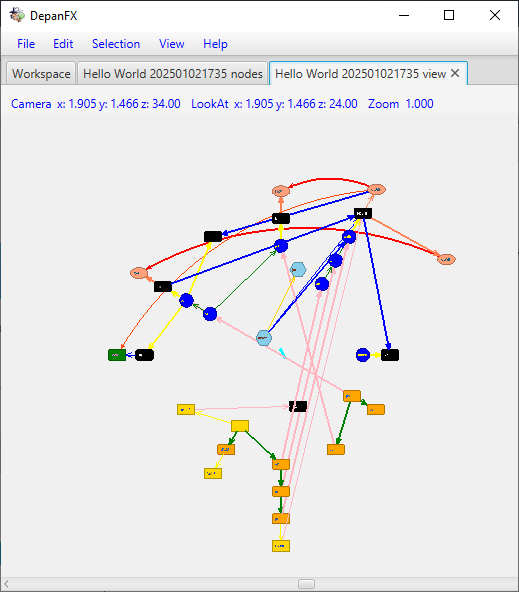
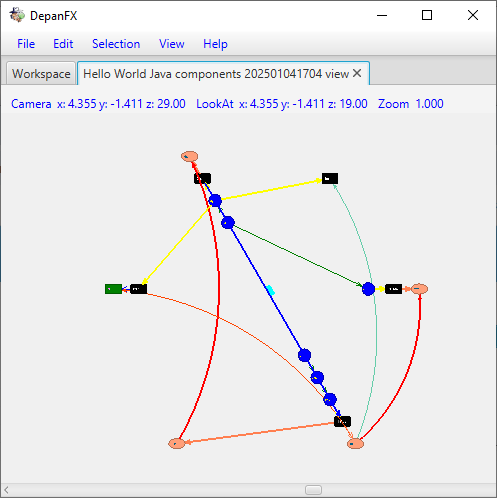
Revisions for better layouts and reference

diff --git a/mkdocs/docs/introduction/lists_and_views/NodeViewPanel.md b/mkdocs/docs/introduction/lists_and_views/NodeViewPanel.md
@@ -23,37 +23,14 @@ Right click on the `Hello World yyyyMMddhhmm.dgi` file to open the context menu,
 and select the Open As Node View menu item.  
 ![Open Hello World Node View](img/Open Hello World Node View.png "Open Hello World Node View")<br/>
 
-The initial presentation is a bit cahotic.  
-![Hello World Node View Initial Panel](img/Hello World Node View Initial Panel.png "Hello World Node View Initial Panel")
+The initial view is a bit too close to the nodes.  
+![Hello World Node View Initial Panel](img/Hello World Node View Initial Layout.png "Hello World Node View Initial Layout")
 
-Even zoomed out, the initial presentation remains messy.
-![Hello World Node View Zoomed Out](img/Hello World Node View Zoomed Out.png "Hello World Node View Zoomed Out")<br/>
-The initial set of 32 components are displayed in a grid layout,
-with arrows going everywhere.
+With the mouse wheel (or '-'), we can zoom in and out for a more comfortable view.
 
-When a node list is opened as a node view, none of the nodes have been assigned a location.
-The current default is a grid layout, whith each node placed on a retangular grid.
-If there are more than a handful of nodes,
-the initial node zoom will only show a few nodes.
-
-## Selecting A Layout
-
-Even zoomed out, the nodes do not present a useful structure.
-We can expose their structure by using the layout options,
-and adjusting the display and visibility of edges and nodes.
-
-From the context menu on the Node View tab,
-select the `Layout Nodes > Radial Layout` menu option.  
-![Hello World Node View Layout Menu](img/Hello World Node View Layout Menu.png "Hello World Node View Layout Menu")
-
-Use the resource chooser to select the Built In `Radial Layout` layout tool.  
-![Hello World Node View Open Layout](img/Hello World Node View Open Layout.png "Hello World Node View Open Layout")
-
-After confirming your selection, the nodes in the view panel move to their new locations.  
-![Hello World Node View Radial Layout](img/Hello World Node View Radial Layout.png "Hello World Node View Radial Layout")
-
-The radial layout tool uses the same Java membership relationships a
-the tree section of a node list panel, so it exposes a similar structure.
+When zoomed out, the Java components are shown in a radial tree.
+This layout optimizes for screen space.
+![Hello World Node View Zoomed Out](img/Hello World Node View Radial Layout.png "Hello World Node View Radial Layout")<br/>
 
 Due to the setup for edge visibility configuration,
 membership relationships use straight arrows of various widths and colors,
@@ -77,7 +54,7 @@ select the `Take Screenshot` menu option.
 
 This brings up the save screenshot dialog using the local system's file chooser.  
 ![Hello World Node View Take Save Screenshot](img/Hello World Node View Save Screenshot.png "Hello World Node View Save Screenshot")<br/>
-The saved `.pdf` from the take screenshot command can be used as any image file.
+The saved `.png` from the take screenshot command can be used as any image file.
 
 Since a primary goal of screenshots is to share information outside of DepanFX,
 screenshots should not be saved within a project.

diff --git a/mkdocs/docs/introduction/lists_and_views/Introduction.md b/mkdocs/docs/introduction/lists_and_views/Introduction.md
@@ -1,2 +1,37 @@
 # Lists and Views
 
+The node list panel and node view panel provide two important perspectives
+on the nodes in a dependency graph.
+
+A node list panel provides a tabular presentation for selected nodes
+in the dependency graph.
+This perspective is very effective for software analysis tasks.
+
+The node view panel provides a graphical presentation for selected nodes
+and their relationships.
+This perspective is very effective for graph inspection and discovery tasks.
+
+## Our Goal
+
+The following sections provide an introduction to these two perspectives
+through a simple goal - obtain a dependency graph image that can be
+include in another document.
+
+Fortunately, DepanFX can capture a snapshot of a dependency graph as a
+png image which is saved to a file.
+The resulting file can be include in other documents where helpful.
+
+For this task, we will use the node list panel to focus the attention
+onto the Java elements of the HelloWorld application.
+The construction of the `.jar` file from the HelloWorld application
+includes a large number of discovered artifacts,
+only some of which are explicitly Java.
+The node list panel allows us to quickly select these components
+and save that selection for later analysis.
+
+The node view panel provides a graphical view of the selected nodes
+that is enriched with explicit presentations of their multiple relationships.
+By pulling the selected Java nodes into a node view,
+the structure of the components is revealed.
+The Take Screenshot menu item allow the currently rendered
+image to be saved as our PNG file.

diff --git a/mkdocs/docs/reference/nodeview/keyboard_cmnds/KeyboardCommands.md b/mkdocs/docs/reference/nodeview/keyboard_cmnds/KeyboardCommands.md
@@ -3,6 +3,24 @@
 The node view panel provides a number of actions that may be triggered
 by user actions within the view rendering panel.
 
+## Node View Motion
+
+DepanFX provides a number of ways to change the view of node graph.
+Many of the view changing commands act on the viewpoint, or camera.
+The actions of these commands can be broken done into a number of categories.
+
+* dolly: move the camera on the indicated direction,
+typically one of the three standard axes.
+* rotate: rotate the camera on the indicated axis.
+* forward: move the camera in the direction it is looking.
+* reverse: move the camera in the away from the direction it is looking.
+
+Note that forward or reverse have effects that resemble zooming in or out.
+Zooming in changes the cameras field of view,
+effectively magnifying the included items.
+Moving forward brings the camera closer,
+which also magnifies the included items.
+
 ## Keyboard Commands
 
 The node view panel provides a number of keyboard commands.
